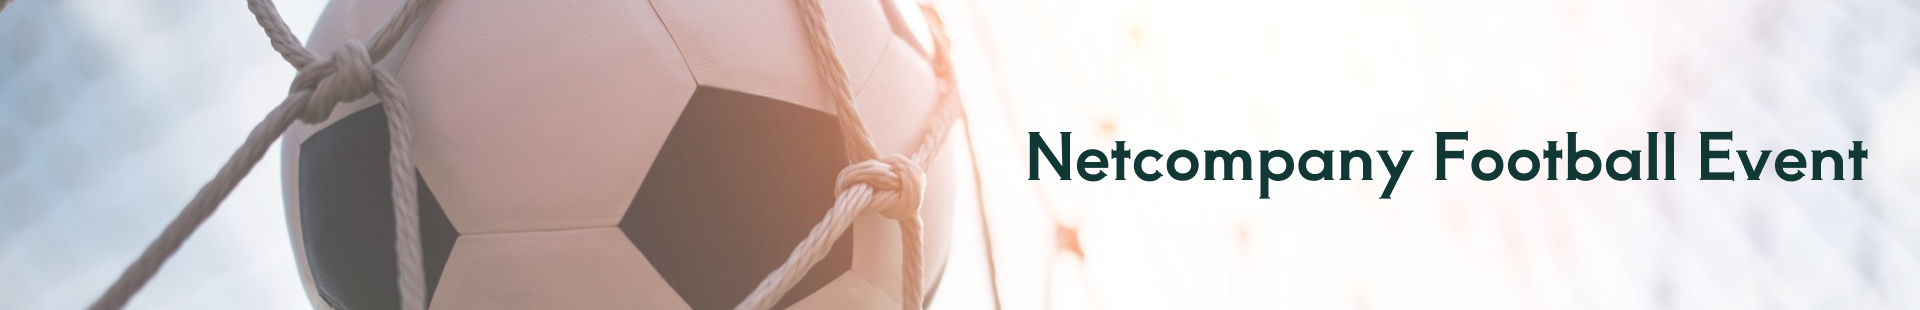
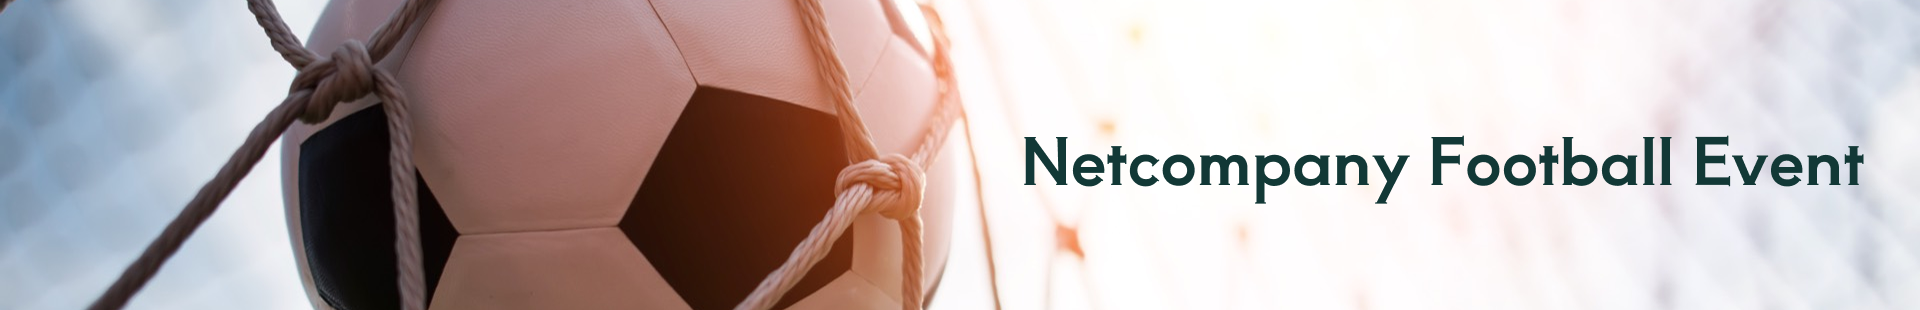
update favorite warning

diff --git a/frontend/src/components/tournament_public/TournamentCard.jsx b/frontend/src/components/tournament_public/TournamentCard.jsx
@@ -2,53 +2,80 @@ import { FontAwesomeIcon } from '@fortawesome/react-fontawesome';
 import { faCircle, faStar } from '@fortawesome/free-solid-svg-icons';
 import { useState, useEffect, useCallback } from 'react'
 import { useNavigate } from 'react-router-dom';
+import { useAuth } from '../../hooks/useAuth'
 
 import banner1 from '../../assets/bannerImages/banner1.jpg'
 import banner2 from '../../assets/bannerImages/banner2.jpg'
 import banner3 from '../../assets/bannerImages/banner3.jpg'
 
+//import component
+import ConfirmationModal from '../common/ConfirmationModal'
 
 const TournamentCard = ({ tournament }) => {
     const navigate = useNavigate();
+    const { isLogin } = useAuth()
     const [favorite, setFavorite] = useState(false);
+    const [showConfirm, setShowConfirm] = useState(false)
+
+    const handleAddFavorite = () => {
+        navigate('/login')
+    }
 
     return (
-        <div className='relative flex w-full h-[50px] md:h-[150px] border border-[#d9d9d9] cursor-pointer gap-3 mt-1
+        <div>
+            <ConfirmationModal
+                open={showConfirm}
+                onClose={() => setShowConfirm(false)}
+                onConfirm={handleAddFavorite}
+                title="Favovrite Tournament"
+                description="You need to login to add this tournament to your favorite list. Do you want to login now?"
+                intent="info"
+                confirmLabel="Sign In"
+                cancelLabel="Cancel"
+            />
+            <div className='relative flex w-full h-[130px] md:h-[150px] border border-[#d9d9d9] cursor-pointer gap-3 mt-1
             rounded-lg shadow-md transition-all duration-300 hover:shadow-xl hover:-translate-y-1 hover:border-[#123836]'
-            onClick={() => navigate(`/tournaments`)}
-        >
-            <img src={banner1} alt='banner1' className='w-[50%] h-full object-cover object-center rounded-tl-lg rounded-bl-lg' />
-            <div className='flex flex-col w-[55%]'>
-                <div className='flex flex-col mt-[5%] items-start h-[90%]'>
-                    <span className='text-[21px] text-[#123836] font-semibold'>{tournament.name}</span>
-                    <span className='text-[14px] text-[#666]'>Start Date: {tournament.startDate}</span>
-                    <span className='text-[14px] text-[#666]'>End Date: {tournament.endDate}</span>
+                onClick={() => navigate(`/tournaments`)}
+            >
+                <img src={banner1} alt='banner1' className='w-[50%] h-full object-cover object-center rounded-tl-lg rounded-bl-lg' />
+                <div className='flex flex-col w-[55%]'>
+                    <div className='flex flex-col mt-[5%] items-start h-[90%]'>
+                        <span className='text-[15px] md:text-[21px] text-[#123836] font-semibold'>{tournament.name}</span>
+                        <span className='text-[10px] md:text-[14px] text-[#666]'>Start Date: {tournament.startDate}</span>
+                        <span className='text-[10px] md:text-[14px] text-[#666]'>End Date: {tournament.endDate}</span>
+                    </div>
+                    <div>
+                        <span className='text-[10px] md:text-[14px]'>Status: </span>
+                        <span className={`text-[10px] md:text-[14px] ${tournament.status === 'Ongoing' ? 'text-red-500' :
+                            tournament.status === 'Ended' ? 'text-green-500' : 'text-yellow-500'}`}
+                        >
+                            {tournament.status}
+                        </span>
+                    </div>
                 </div>
-                <div>
-                    <span className='text-[14px]'>Status: </span>
-                    <span className={`text-[14px] ${tournament.status === 'Ongoing' ? 'text-red-500' :
-                        tournament.status === 'Ended' ? 'text-green-500' : 'text-yellow-500'}`}
-                    >
-                        {tournament.status}
-                    </span>
+                <div className='flex items-center w-[5%]'>
+                    {favorite ? (
+                        <FontAwesomeIcon icon={faStar} className='text-yellow-500 text-[18px] mr-1 hover:text-yellow-500/50 transition-colors duration-300'
+                            onClick={(e) => {
+                                e.stopPropagation();
+                                setFavorite(!favorite);
+                            }}
+                        />
+                    ) : (
+                        <FontAwesomeIcon icon={faStar} className='text-gray-400 text-[18px] mr-1 hover:text-yellow-500/50 transition-colors duration-300'
+                            onClick={(e) => {
+                                if (!isLogin) {
+                                    e.stopPropagation();
+                                    setShowConfirm(true);
+                                } else {
+                                    e.stopPropagation();
+                                    setFavorite(!favorite);
+                                }
+                            }}
+                        />
+                    )}
                 </div>
-            </div>
-            <div className='flex items-center w-[5%]'>
-                {favorite ? (
-                    <FontAwesomeIcon icon={faStar} className='text-yellow-500 text-[18px] mr-1 hover:text-yellow-500/50 transition-colors duration-300'
-                        onClick={(e) => {
-                            e.stopPropagation();
-                            setFavorite(!favorite);
-                        }}
-                    />
-                ) : (
-                    <FontAwesomeIcon icon={faStar} className='text-gray-400 text-[18px] mr-1 hover:text-yellow-500/50 transition-colors duration-300'
-                        onClick={(e) => {
-                            e.stopPropagation();
-                            setFavorite(!favorite);
-                        }}
-                    />
-                )}
+
             </div>
         </div>
     )

diff --git a/frontend/src/components/match_public/MatchScoreCard.jsx b/frontend/src/components/match_public/MatchScoreCard.jsx
@@ -46,11 +46,11 @@ const MatchScoreCard = ({ match }) => {
                 onClick={() => navigate(`./matches/${match.matchNumber}`)}
             >
                 <div className='flex flex-col w-[50%] mt-1'>
-                    <span className='text-[15px] h-[10%]'>Date: {match.date}</span>
-                    <span className='text-[15px] h-[10%]'>Time: {match.time}</span>
+                    <span className='text-[10px] md:text-[15px] h-[10%]'>Date: {match.date}</span>
+                    <span className='text-[10px] md:text-[15px] h-[10%]'>Time: {match.time}</span>
                     <div className={`flex flex-col mt-[5%] items-center transition-all duration-300 ${isCompleted && team1Losing ? 'opacity-40' : ''}`}>
                         <img src={logo1} alt='logoteam1' className='w-10 h-10 md:h-15 md:w-15 object-contain' />
-                        <span className='text-[15px] font-black uppercase'>{match.team1}</span>
+                        <span className='text-[10px] md:text-[15px] font-black uppercase'>{match.team1}</span>
                     </div>
                 </div>
                 <div className='flex flex-col w-[50%] bg-[#123836] rounded-tr-lg rounded-br-lg text-white'>
@@ -60,13 +60,13 @@ const MatchScoreCard = ({ match }) => {
                         ) : (
                             <FontAwesomeIcon icon={faCircle} className='text-red-500 mr-1 animate-pulse' />
                         )}
-                        <span className='mr-2 text-[13px] md:text-[16px]'>
+                        <span className='mr-2 text-[10px] md:text-[13px] md:text-[16px]'>
                             {isCompleted ? 'Completed' : formatTime(elapsedSeconds)}
                         </span>
                     </div>
                     <div className={`flex flex-col mt-[5%] items-center transition-all duration-300 ${isCompleted && team2Losing ? 'opacity-40' : ''}`}>
                         <img src={logo2} alt='logoteam2' className='w-10 h-10 md:h-15 md:w-15 object-contain' />
-                        <span className='text-[15px] font-black uppercase'>{match.team2}</span>
+                        <span className='text-[10px] md:text-[15px] font-black uppercase'>{match.team2}</span>
                     </div>
                 </div>
                 <div className='absolute inset-0 flex flex-col items-center justify-center gap-4 pointer-events-none'>

diff --git a/frontend/src/pages/public/SportsPage.jsx b/frontend/src/pages/public/SportsPage.jsx
@@ -56,21 +56,21 @@ const SportsPage = () => {
 
   return (
     <div>
-      <div className='h-[80px] md:h-[200px] w-full overflow-hidden'>
-        <img src={basketball} alt={id} className='h-full w-full object-cover object-center'/>
+      <div className='h-[80px] md:h-full w-full overflow-hidden'>
+        <img src={football} alt={id} className='h-full w-full object-cover object-center'/>
       </div>
       <div className='flex items-center bg-[#d9d9d9] h-[70px] px-[5%] md:px-[10%] text-[#123836] text-[20px] md:text-[30px] font-semibold w-full'>
         <div className='w-[60%]'>Recent Matches</div>
         <div className='w-[40%] ml-5'>Tournament List</div>
       </div>
-      <div className='flex px-[5%] md:px-[10%] py-5'>
-        <div className='flex flex-col gap-10 w-full pr-5 md:w-[60%] border-r border-[#d9d9d9]'>
+      <div className='flex flex-col md:flex-row px-[5%] md:px-[10%] py-5'>
+        <div className='flex flex-col gap-10 w-full md:pr-5 md:w-[60%] md:border-r border-[#d9d9d9]'>
           {matchItems.map((match, index) => (
             <MatchScoreCard key={index} match={match} />
           ))}
         </div>
-        <div className='flex flex-col w-full md:w-[40%] ml-5 gap-3'>
-          <div className='flex items-center justify-between cursor-pointer' onClick={() => setIsOpenOngoing(!isOpenOngoing)}>
+        <div className='flex flex-col w-full md:w-[40%] md:ml-5 gap-3'>
+          <div className='flex items-center justify-between cursor-pointer mt-5 md:mt-0' onClick={() => setIsOpenOngoing(!isOpenOngoing)}>
             <span className='text-[18px] md:text-[25px] font-semibold text-[#123836]' >Ongoing Tournaments</span>
             <FontAwesomeIcon icon={faChevronDown} className={`text-[20px] transition-transform duration-300 ${isOpenOngoing ? 'rotate-180' : ''}`} />
           </div>
